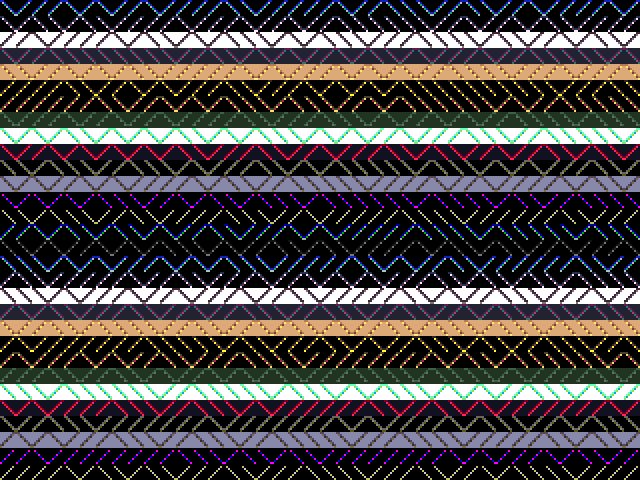
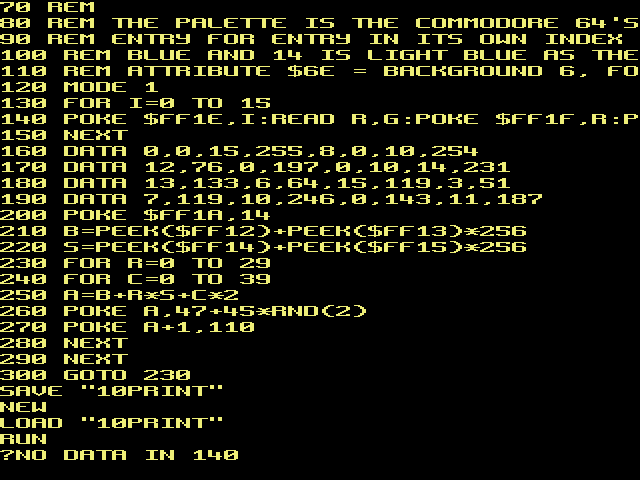
The C64 palette in the C64s order, and one key()/settle()
## Bank 10 was the right colours at the wrong indices

lospec sorts its commodore64 list by tone, so its entry 6 is a brown and
its 14 a dark blue. On a C64 colour 6 *is* blue and 14 *is* light blue,
and a program that says 6 means blue. A palette named after a machine
has to answer to that machines numbers or it is only a swatch. Values
from c64-wiki, the VICE/CCS64 set, in index order.

## key() and settle() had two copies, and mkdemos wanted a third

They live in sim/harness.py now and sim/test_boot_basic.py imports them,
which is what AGENTS.md means by not writing a second implementation of
a shared thing. The demo builder uses the same pair.

## The demo disc

tools/mkdemos.py boots the machine rather than poking it -- the boot
stub is what uploads the fonts, and a text demo on a machine that never
booted renders blank, which is not hypothetical because the first
version did exactly that. Programs are typed at the machine so the only
tokeniser is sw/token.asm.

demos/10print.bas is the C64 one-liner in mode 1, 40 columns, with the
C64 palette copied entry for entry into bank 0 and attribute $6E --
background 6, foreground 14. It draws correctly when typed at the serial
console.

**It does not draw when typed at the keyboard**, because the machine
mis-stores long programs typed that way. That hunt is still open and is
recorded in the next commit rather than this one.

Gates: 19 suites, check 7.

diff --git a/tools/mkdemos.py b/tools/mkdemos.py
@@ -1,18 +1,20 @@
 #!/usr/bin/env python3
 """Build the demo disc: every `demos/*.bas` onto drive 13.
 
-    python tools/mkdemos.py [--img PATH] [--png]
+    python tools/mkdemos.py [--img PATH] [--png NAME]
 
-**The programs are typed at the machine, not written by this script.**
-A BASIC program on disc is *tokenised*, and the only thing that knows the
-token table is the machine's own tokeniser -- so this boots the VM, types
-each source in, and lets `SAVE` write it. A host-side tokeniser would be
-a second implementation of `sw/token.asm` and would drift from it, which
-is the trap `AGENTS.md` names first.
+**The machine is booted, not poked.** `BOOT.BIN` goes on drive 0 and the
+ROM autoboots it, which is `poe emu` without a window -- because the boot
+stub is what uploads the fonts into VRAM and a text demo drawn on a
+machine that never booted is a blue screen with nothing on it. That is
+not a hypothetical: the first version of this script poked the image in
+and jumped to `main`, and the first text demo rendered blank.
 
-That also means the sources in `demos/` are the truth and the disc is
-derived, so a demo is reviewed as text and rebuilt rather than edited as
-a binary.
+**The programs are typed at the machine, not written by this script.** A
+program on disc is tokenised, and the only thing that knows the token
+table is `sw/token.asm`; a host-side tokeniser would be a second
+implementation of it and would drift the first time a keyword was added.
+So the sources in `demos/` are the truth and the disc is derived.
 
 Drive 13 is the demo disc; 14 and 15 are the system discs. See
 [docs/14-demos.md](../docs/14-demos.md).
@@ -30,11 +32,13 @@ sys.path.insert(0, HERE)
 
 import harness as H                                      # noqa: E402
 import cool8disk as disk                                 # noqa: E402
+import cool8rsvm as vm                                   # noqa: E402
+import memmap                                            # noqa: E402
+import mkboot                                            # noqa: E402
 import test_basic as B                                   # noqa: E402
 
 DEMOS = os.path.join(ROOT, "demos")
 DRIVE = 13
-LABEL = "DEMOS"
 
 
 def sources():
@@ -42,68 +46,71 @@ def sources():
 
 
 def discname(f):
-    """`10print.bas` -> `10PRINT`, which SAVE turns into 10PRINT.BAS."""
     return os.path.splitext(f)[0].upper()[:8]
 
 
-def build(imgpath, png=False):
+def volume(imgpath, code):
+    """Drive 0 bootable, drive 13 the demo disc, the rest the user's."""
     if os.path.exists(imgpath):
         os.remove(imgpath)
     img = disk.Image(imgpath, create=True)
     for d in range(16):
-        disk.Volume(img, d).format(LABEL if d == DRIVE else "COOL8")
+        disk.Volume(img, d).format("DEMOS" if d == DRIVE else "COOL8")
+    boot = mkboot.build(code, dest=memmap.ORG, build_dir=H.BUILD)
+    disk.Volume(img, 0).add(os.path.join(H.BUILD, "BOOT.BIN"), "BOOT.BIN")
     img.save()
-
-    code, syms = B.build()
-    M = B.Machine(code, syms, flash=imgpath, render=png)
-    M.settle()
-    M.cmd("CLS")
-    M.cmd("DRIVE %d" % DRIVE)
-
-    for f in sources():
-        M.cmd("NEW")
-        for line in io.open(os.path.join(DEMOS, f),
-                            encoding="utf-8").read().splitlines():
-            if line.strip():
-                M.cmd(line)
-        M.cmd('SAVE "%s"' % discname(f))
-        print("  typed and saved %-16s as %s" % (f, discname(f)))
-    M.m.flash.flush()
-
-    v = disk.Volume(disk.Image(imgpath), DRIVE)
-    on = [disk.show_name(e["name"]) for e in v.files()]
-    print("  drive %d holds: %s" % (DRIVE, ", ".join(on)))
-    return M, syms
-
-
-def shoot(M, name):
-    """One frame of the running program, as a PNG."""
-    import test_video as TV
-    M.m.run(cycles=250_000_000)
-    M.m.run_frame(2)
-    rgb = bytearray()
-    for v in M.m.fb():
-        rgb += bytes((((v >> 8) & 15) * 17, ((v >> 4) & 15) * 17,
-                      (v & 15) * 17))
-    out = os.path.join(ROOT, "docs", "img", "demo-%s.png" % name)
-    TV.write_png(out, 640, 480, rgb)
-    print("  wrote", os.path.relpath(out, ROOT))
+    return len(boot)
 
 
 def main():
     ap = argparse.ArgumentParser()
     ap.add_argument("--img", default=os.path.join(H.BUILD, "demos.img"))
-    ap.add_argument("--png", action="store_true",
-                    help="run the first demo and shoot a frame")
+    ap.add_argument("--png", metavar="NAME", nargs="?", const="",
+                    help="run this demo (default the first) and shoot it")
     args = ap.parse_args()
 
-    M, _ = build(args.img, png=args.png)
-    if args.png and sources():
-        first = discname(sources()[0])
-        M.cmd("NEW")
-        M.cmd('LOAD "%s"' % first)
-        M.m.type("RUN" + chr(13))
-        shoot(M, first.lower())
+    code, syms = B.build()
+    n = volume(args.img, code)
+    print("  16 volumes; drive 0 bootable (BOOT.BIN {:,}), drive {} is "
+          "DEMOS".format(n, DRIVE))
+
+    m = vm.boot(flash_path=args.img, render=True)
+    for _ in range(90):
+        m.run_frame()
+    H.settle(m, syms)
+    H.key(m, syms, "DRIVE %d\r" % DRIVE)
+
+    for f in sources():
+        H.key(m, syms, "NEW\r")
+        for line in io.open(os.path.join(DEMOS, f),
+                            encoding="utf-8").read().splitlines():
+            if line.strip():
+                H.key(m, syms, line + "\r")
+        H.key(m, syms, 'SAVE "%s"\r' % discname(f))
+        print("  typed and saved %-16s as %s" % (f, discname(f)))
+    m.flash.flush()
+
+    v = disk.Volume(disk.Image(args.img), DRIVE)
+    print("  drive %d holds: %s"
+          % (DRIVE, ", ".join(disk.show_name(e["name"]) for e in v.files())))
+
+    if args.png is not None and sources():
+        want = args.png or discname(sources()[0])
+        H.key(m, syms, "NEW\r")
+        H.key(m, syms, 'LOAD "%s"\r' % want)
+        H.key(m, syms, "RUN\r")
+        m.run(cycles=400_000_000)
+        m.run_frame(2)
+        import test_video as TV
+        rgb = bytearray()
+        for p in m.fb():
+            rgb += bytes((((p >> 8) & 15) * 17, ((p >> 4) & 15) * 17,
+                          (p & 15) * 17))
+        out = os.path.join(ROOT, "docs", "img",
+                           "demo-%s.png" % want.lower())
+        TV.write_png(out, 640, 480, rgb)
+        print("  %d colours on screen -> %s"
+              % (len(set(m.fb())), os.path.relpath(out, ROOT)))
     print("  %s" % os.path.relpath(args.img, ROOT))
 
 

diff --git a/sim/harness.py b/sim/harness.py
@@ -106,6 +106,38 @@ def session(render=False):
     return _vm.Machine(render=render) if render else _vm.Machine()
 
 
+def settle(m, syms, budget=40_000_000):
+    """Wait for the editor to go idle -- the machine's own idle test.
+
+    Both FIFOs empty, the input ring drained, and the CPU sitting at
+    `in_raw`'s "nothing waiting" branch. That is one question with one
+    answer, so it lives here rather than in each caller.
+    """
+    return m.settle(syms["in_raw.rk0"], syms["irhead"], syms["irtail"],
+                    budget)
+
+
+def key(m, syms, text, budget=40_000_000):
+    """Type `text` at the **keyboard**, a character at a time, waiting
+    for the editor after each.
+
+    `m.type()` is the serial console and `m.key()` is the keyboard --
+    different drivers and a different interrupt -- so a script that only
+    ever types at the cable proves nothing about the machine a person
+    holds.
+
+    **This had two copies before the demo builder wanted a third**, in
+    `sim/test_boot_basic.py` and in `tools/mkdemos.py`, which is the trap
+    at the top of AGENTS.md arriving in the tooling that exists to avoid
+    it. Raises rather than returning a flag: a dropped character is a
+    typo the caller cannot recover from.
+    """
+    for ch in text:
+        m.key([ch])
+        if not settle(m, syms, budget):
+            raise SystemExit("the machine never went idle after %r" % ch)
+
+
 _FONT = None
 
 

diff --git a/tools/palette.py b/tools/palette.py
@@ -129,10 +129,16 @@ BANKS = [
       "FF80A4", "FF2674", "94216A", "430067", "234975", "68AED4",
       "BFFF3C", "10D275", "007899", "002859"]),
 
-    ("Commodore 64", "Commodore", LOSPEC % "commodore64",
-     ["000000", "626262", "898989", "ADADAD", "FFFFFF", "9F4E44",
-      "CB7E75", "6D5412", "A1683C", "C9D487", "9AE29B", "5CAB5E",
-      "6ABFC6", "887ECB", "50459B", "A057A3"]),
+    # **In the C64's own index order, not lospec's.** lospec sorts its
+    # list by tone, so its entry 6 is a brown and its 14 a dark blue --
+    # correct colours, useless indices. On a C64 colour 6 *is* blue and
+    # 14 *is* light blue, and a program that says 6 means blue. A palette
+    # named after a machine has to answer to that machine's numbers or it
+    # is only a swatch. Values from c64-wiki, the VICE/CCS64 set.
+    ("Commodore 64", "Commodore", "https://www.c64-wiki.com/wiki/Color",
+     ["000000", "FFFFFF", "880000", "AAFFEE", "CC44CC", "00CC55",
+      "0000AA", "EEEE77", "DD8855", "664400", "FF7777", "333333",
+      "777777", "AAFF66", "0088FF", "BBBBBB"]),
 
     ("NA16", "Nauris", LOSPEC % "na16",
      ["8C8FAE", "584563", "3E2137", "9A6348", "D79B7D", "F5EDBA",

diff --git a/sim/test_boot_basic.py b/sim/test_boot_basic.py
@@ -62,19 +62,8 @@ def image(boot):
     img.save()
 
 
-def settle(m, syms, budget=40_000_000):
-    """Wait for the editor to go idle — m.settle, the machine's own
-    idle test (same conditions sim/test_basic.py names: both FIFOs
-    empty, the ring drained, the CPU at rawkey's idle branch)."""
-    return m.settle(syms["in_raw.rk0"], syms["irhead"], syms["irtail"],
-                    budget)
-
-
-def key(m, syms, text):
-    for ch in text:
-        m.key([ch])
-        if not settle(m, syms):
-            raise SystemExit("the machine never went idle after %r" % ch)
+settle = H.settle          # the shared pair, sim/harness.py
+key = H.key
 
 
 def modes(syms):

diff --git a/rust/src/pal.rs b/rust/src/pal.rs
@@ -44,8 +44,8 @@ pub const DEFAULT: [u16; 256] = [
     0xFD7, 0xF95, 0xC56, 0x637, 0xC26, 0xE8B, 0xFB9, 0x998,
     0x112, 0x702, 0xD21, 0xF82, 0xFC0, 0xFFF, 0xF8A, 0xF27,
     0x926, 0x406, 0x247, 0x6AC, 0xBF4, 0x1C7, 0x079, 0x025,
-    0x000, 0x666, 0x888, 0xAAA, 0xFFF, 0x954, 0xC77, 0x651,
-    0x964, 0xCC8, 0x9D9, 0x5A6, 0x6BC, 0x87C, 0x549, 0x95A,
+    0x000, 0xFFF, 0x800, 0xAFE, 0xC4C, 0x0C5, 0x00A, 0xEE7,
+    0xD85, 0x640, 0xF77, 0x333, 0x777, 0xAF6, 0x08F, 0xBBB,
     0x88A, 0x546, 0x423, 0x964, 0xD97, 0xEEB, 0xBC4, 0x673,
     0xD93, 0x933, 0xC67, 0x737, 0x7CB, 0x389, 0x144, 0x212,
     0x000, 0x000, 0x00D, 0x00F, 0xD00, 0xF00, 0xD0D, 0xF0F,
